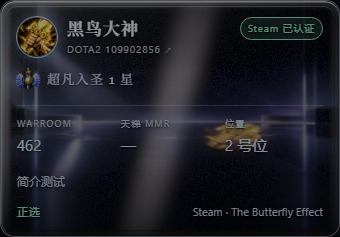
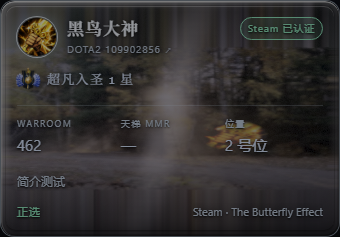
feat(card): 镜面反射背景换成逆光的秋日森林
用户提供的照片：中景树林 + 逆光高光、左下落叶土路、顶部过曝天光。

- 转成 768×576 WebP（q68，127KB）。再大没有意义——反射里默认就取
  mip 2.6（约 170px 有效），大图只是白烧带宽。
- 新图整体比原来的深蓝展厅亮，所以把 sceneGain 0.94 → 0.85 找回对比度，
  grayscale 0.35 → 0.2 让森林保留颜色。
- 顺带把注释里"地平线 0.47"这类只对旧图有意义的说法改掉
  （spotY 的提示改成"换图后要重新找位置"）。

其余行为不变：取样公式、指针 XY 方向、柔光仅悬停、灯箱扫光。

diff --git a/apps/web/src/lib/mirror.ts b/apps/web/src/lib/mirror.ts
@@ -190,7 +190,7 @@ export const DEFAULT_MIRROR_PARAMS: MirrorParams = {
   metalness: 1,
   roughness: 0.35,
   blurStrength: 6,
-  grayscale: 0.35,
+  grayscale: 0.2,
   warp: 0.15,
   warpScale: 1,
   shine: 1,
@@ -211,7 +211,7 @@ export const DEFAULT_MIRROR_PARAMS: MirrorParams = {
 
   spanX: 0.62,
   spanY: 0.95,
-  sceneGain: 0.94,
+  sceneGain: 0.85,
   spotX: 0.7,
   spotY: 0.62,
   spotRadius: 0.11,
@@ -497,7 +497,7 @@ vec3 sceneEnvironment(vec2 uvScene) {
   col = mix(col, vec3(dot(col, vec3(0.299, 0.587, 0.114))), uMisc2.y);
 
   // 房间里的那盏"肖像灯"：把本人头像当成一块发光的画挂进场景。
-  // 位置在场景图的地平线以上（uv.y > 0.47），否则就成了"地上摊着一张会发光的画"。
+  // 挂在场景图的一片树林里，和暖色天光混在一起——换背景图时要重新找 spot 位置。
   if (uEnvReady.y > 0.5) {
     vec2 local = (uv - uSpotCfg.xy) / uSpotCfg.z;
     float d = length(local);

diff --git a/apps/web/src/lib/changelog.ts b/apps/web/src/lib/changelog.ts
@@ -16,7 +16,7 @@
  * 和 APP_VERSION 对不上就自动弹一次，之后只能从页脚的版本号点开，
  * 避免每次刷新都弹出。
  */
-export const APP_VERSION = '1.13.3';
+export const APP_VERSION = '1.14.0';
 
 export interface ReleaseNote {
   version: string;
@@ -26,6 +26,11 @@ export interface ReleaseNote {
 }
 
 export const RELEASES: ReleaseNote[] = [
+  {
+    version: '1.14.0',
+    date: '2026-11-11',
+    items: ['镜面：反射背景换成逆光的秋日森林'],
+  },
   {
     version: '1.13.3',
     date: '2026-11-10',

diff --git a/apps/web/src/components/CardStudio.vue b/apps/web/src/components/CardStudio.vue
@@ -213,7 +213,7 @@ const MIRROR_TUNING_ADVANCED: { title: string; note: string; items: TuningItem[]
       {
         key: 'spotY',
         label: '灯 · 纵向',
-        hint: '地平线在 0.47 附近，必须大于它，否则灯会落在地上',
+        hint: '场景图 uv 的纵坐标；场景图换过几次，这个值要跟着新图重新找位置',
         step: 0.01,
       },
       { key: 'spotRadius', label: '灯 · 半径', hint: '太小会变成一个小光点', step: 0.005 },

diff --git a/docs/UI.md b/docs/UI.md
@@ -349,7 +349,8 @@ CSS 变量：--foil-light-x / --foil-light-y / --foil-angle / --foil-intensity /
     - **镜面（`lib/mirror.ts`）是全站唯一用 WebGL2 的卡面**，也是唯一一条"着色器 + 2D 回贴"的管线：
       - 全站**只有一个** WebGL2 上下文（离屏 canvas，`preserveDrawingBuffer: true`）：渲完一帧立刻 `drawImage` 贴回卡片自己的 `.pcard-surface`（2D canvas）。报名页十几张卡不会各开一个上下文（浏览器大约 16 个就开始丢最老的），也保住了"WebGL2 不可用时退回 2D 渐变"这条退路——同一个 canvas 不能换上下文类型，所以卡片侧永远坚持 2D。
       - 板面法线 = 横向曲率略大于纵向的微弯（`p × 0.40 / 0.18`）+ 低频拉丝。**纵向曲率必须小**：纵向一弯，场景里的竖线（立柱、平台边）会被拧成波浪，看着像贴图被揉皱了（踩过）。
-      - **反射的内容是一张打包进前端的虚拟场景**（`assets/env-stage.webp`，1024×576，16KB）：深蓝展厅、一条地平线灯带、左右两根立柱、下半部分是抛光地面。按 `uv = 0.5 + R.xy × (0.62, 0.95)` 取样——场景图是平面幕布而不是等距柱状全景，这个映射等于"远处的一面墙"，指针一动整张图就在板面上滑。
+      - **反射的内容是一张打包进前端的虚拟场景**（`assets/env-stage.webp`，768×576，127KB）：一片逆光的秋日森林——中景是树林和高光，左下是落满叶子的土路，顶部是过曝的天光。按 `uv = 0.5 + (q × 0.85 + slide) × (0.62, 0.95)` 取样；场景图是平面幕布而不是等距柱状全景，这个映射等于"远处的一面墙"，指针一动整张图就在板面上滑。
+      - 换图时注意三件事：**尺寸别超 1024 宽**（反射本来就要糊，大图只是白烧带宽）、**WebP 质量 68 左右**（照片类素材 100KB 出头是合理上限）、**取景要留出亮暗差**（全图均匀亮的话卡面会发灰、文字也没对比度）。
       - **必须取高 mip（`textureLod(..., 2.4)`）**。清晰的原图反射上去像贴纸，而且会和卡片上的文字抢对比度；糊了才像"远处的屋子映在金属上"。
       - **本人头像作为场景里的一盏"肖像灯"**（`AVATAR_SPOT`，uv `(0.7, 0.62)`，半径 0.11）。位置有两条硬约束：必须在 `uv.y > 0.47`（地平线以上，否则就是"地上摊着一张会发光的画"）；横向必须避开卡面左半边（名字和头像都在那儿，灯放过去会把大标题压糊）。
       - 头像用 `max()` 而不是直接替换合成：头像大多偏暗，直接盖会在板面上砸出一个黑洞，只允许它"提亮"才像灯。外面再叠一圈**暖色灯罩**——整间屋子都是冷蓝的，唯一一处暖光就是"你"，这也是全局里唯一能一眼找到头像的线索。
